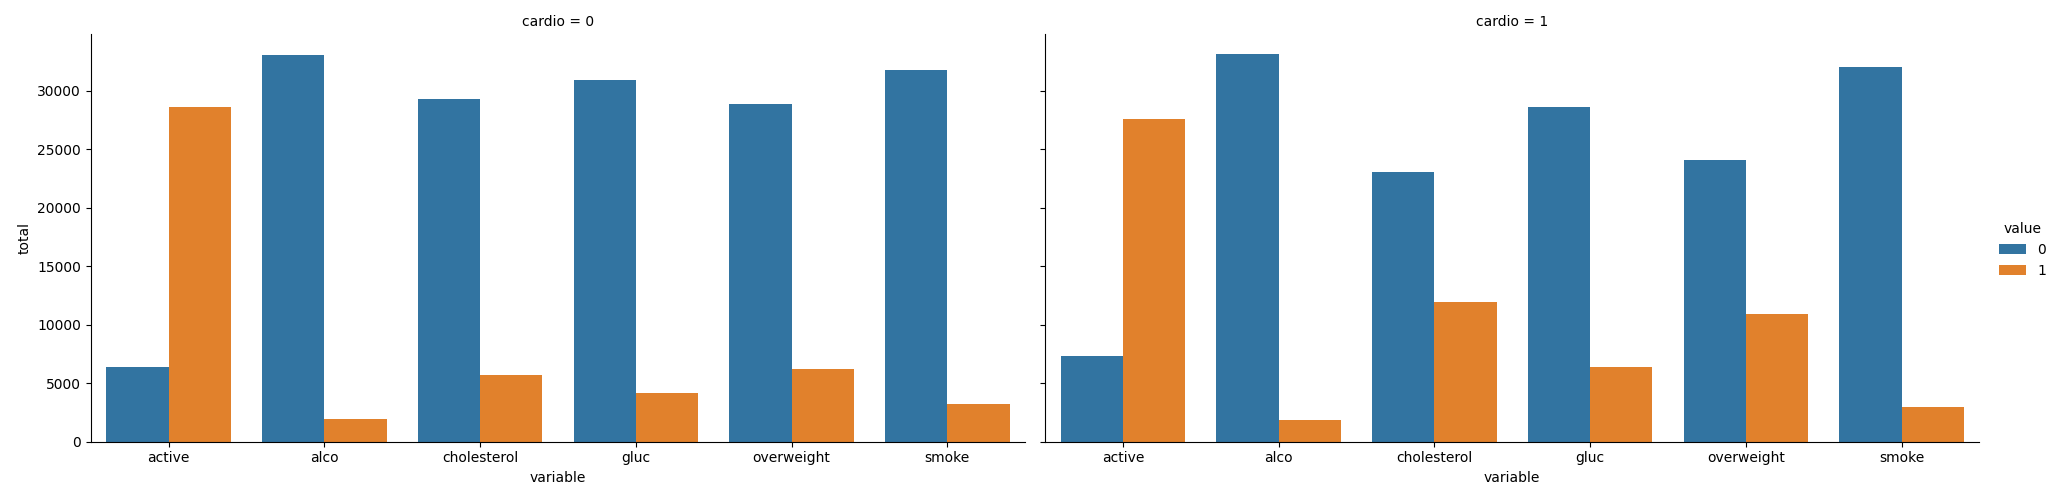
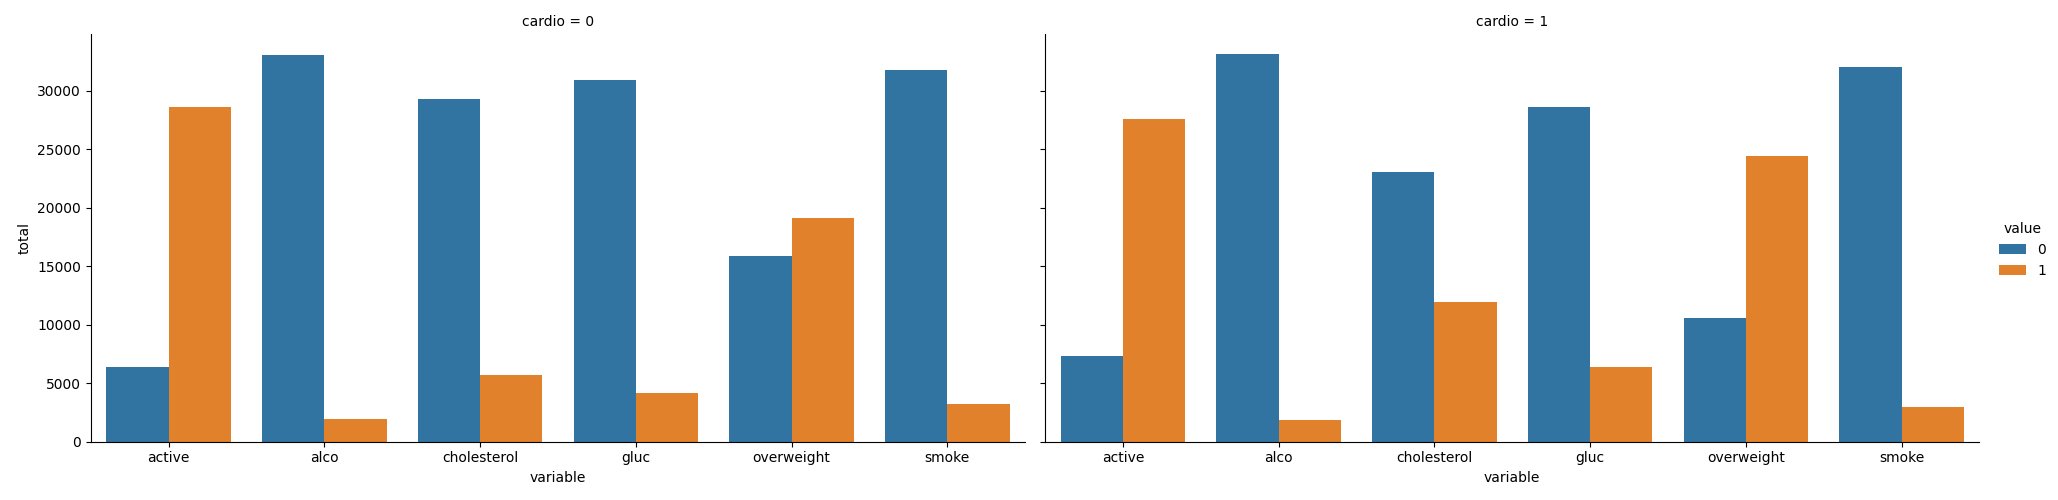
completed

Changed region(s): [[0.3421, 0.21, 0.4354, 0.75], [0.8086, 0.3, 0.9018, 0.66]]

diff --git a/test_module.py b/test_module.py
@@ -42,7 +42,6 @@ class HeatMapTestCase(unittest.TestCase):
     
     def test_heat_map_values(self):
         actual = [text.get_text() for text in self.ax.get_default_bbox_extra_artists() if isinstance(text, mpl.text.Text)]
-        print(actual)
         expected = ['0.0', '0.0', '-0.0', '0.0', '-0.1', '0.5', '0.0', '0.1', '0.1', '0.3', '0.0', '0.0', '0.0', '0.0', '0.0', '0.0', '0.2', '0.1', '0.0', '0.2', '0.1', '0.0', '0.1', '-0.0', '-0.1', '0.1', '0.0', '0.2', '0.0', '0.1', '-0.0', '-0.0', '0.1', '0.0', '0.1', '0.4', '-0.0', '-0.0', '0.3', '0.2', '0.1', '-0.0', '0.0', '0.0', '-0.0', '-0.0', '-0.0', '0.2', '0.1', '0.1', '0.0', '0.0', '0.0', '0.0', '0.3', '0.0', '-0.0', '0.0', '-0.0', '-0.0', '-0.0', '0.0', '0.0', '-0.0', '0.0', '0.0', '0.0', '0.2', '0.0', '-0.0', '0.2', '0.1', '0.3', '0.2', '0.1', '-0.0', '-0.0', '-0.0', '-0.0', '0.1', '-0.1', '-0.1', '0.7', '0.0', '0.2', '0.1', '0.1', '-0.0', '0.0', '-0.0', '0.1']
         self.assertEqual(actual, expected, "Expected different values in heat map.")
 

diff --git a/medical_data_visualizer.py b/medical_data_visualizer.py
@@ -7,7 +7,7 @@ import numpy as np
 df = pd.read_csv("medical_examination.csv")
 
 # 2
-df['overweight'] = ((df['weight']) / ((df['height'] / 100)* 2)).apply(lambda x: 1 if x >= 25 else 0)
+df['overweight'] = ((df['weight']) / ((df['height'] / 100) ** 2)).apply(lambda x: 1 if x >= 25 else 0)
 
 # 3
 df[df[['cholesterol', 'gluc']] == 1] = 0
@@ -51,10 +51,8 @@ def draw_heat_map():
     # 13
     mask = np.triu(np.ones_like(corr, dtype=bool))
 
-
-
     # 14
-    fig, ax = plt.subplots(figsize=(10, 5))    
+    fig, ax = plt.subplots(figsize=(10, 5))
 
     # 15
     sns.heatmap(corr, mask=mask, square=True, annot=True, fmt=".01f")
@@ -62,4 +60,3 @@ def draw_heat_map():
     # 16
     fig.savefig('heatmap.png')
     return fig
-
